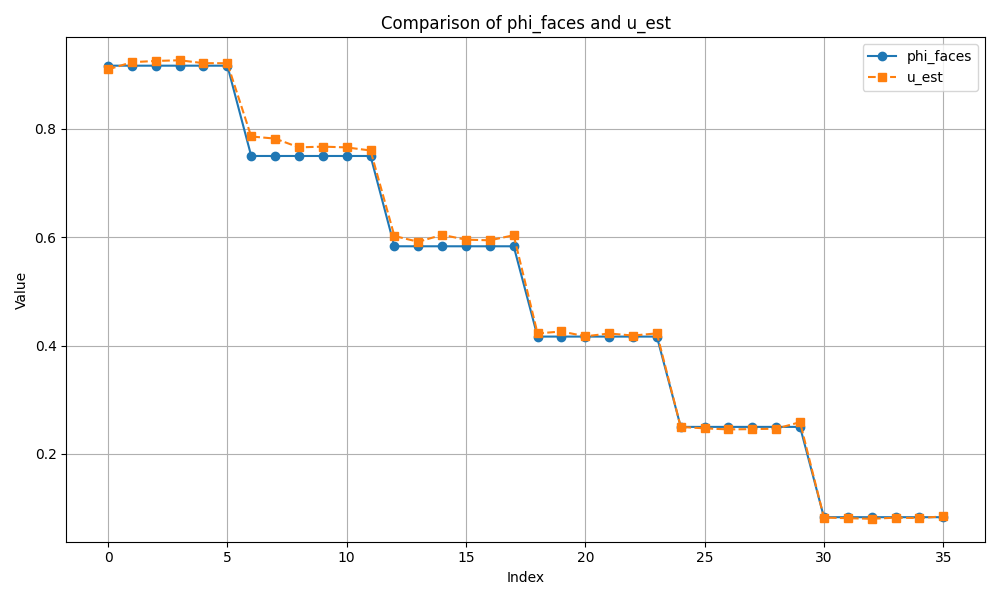
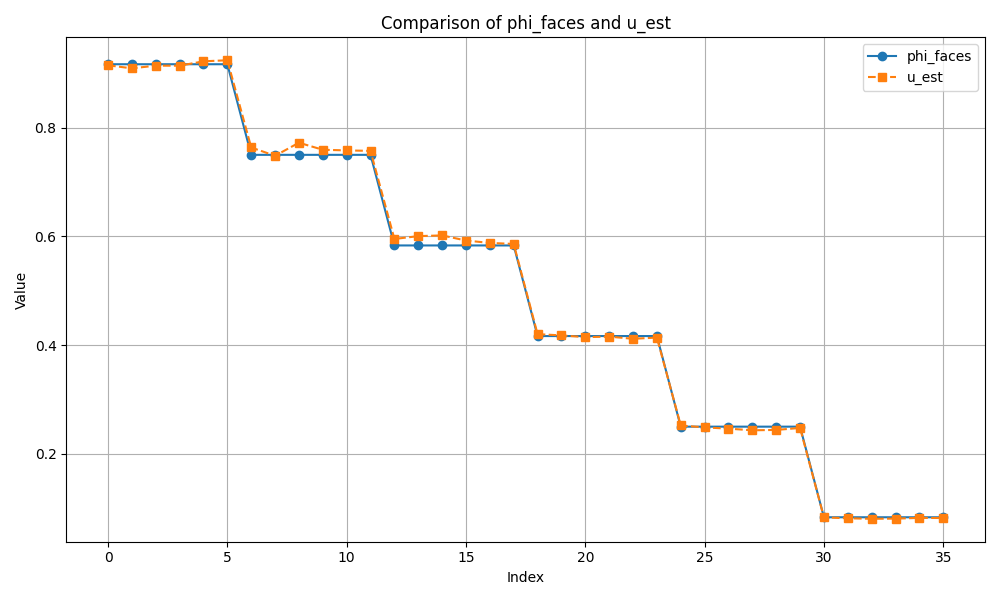
other test cases

diff --git a/ddec/DDEC_Net.py b/ddec/DDEC_Net.py
@@ -17,7 +17,7 @@ class PerturbNet(nn.Module):
                 nn.Linear(hidden_dim, 1)
             ).to(dtype=torch.float64, device=self.device) for _ in range(N)
         ])
-        #He initialization
+        
         self._init_nn()
     
     def _init_nn(self):
@@ -50,7 +50,7 @@ class PerturbNet(nn.Module):
 
 
 class DDECModel(nn.Module):
-    def __init__(self, iter, tol, epsilon, in_dim, out_dim, properties, device='cuda'):
+    def __init__(self, iter, tol, in_dim, out_dim, properties, device='cuda'):
         super(DDECModel, self).__init__()
         self.device = device
         if device == 'cuda' and not torch.cuda.is_available():
@@ -58,7 +58,6 @@ class DDECModel(nn.Module):
         
         self.iter = iter
         self.tol = tol
-        self.epsilon = epsilon
         self.in_dim = in_dim
         self.out_dim = out_dim
         self.lambda_adj = 0
@@ -72,19 +71,6 @@ class DDECModel(nn.Module):
         self.d1 = properties['d1']
         self.d0 = properties['d0']
         self.nn_contrib = 0
-        
-        temp = self.d1 @ self.d0
-        if self.epsilon > 0:
-            hidden_dim = 20
-            self.nn_modules = nn.ModuleList([
-                nn.Sequential(
-                nn.Linear(1, hidden_dim),
-                nn.ELU(),
-                nn.Linear(hidden_dim, hidden_dim),
-                nn.ELU(),
-                nn.Linear(hidden_dim, 1)).to(dtype=torch.float64) for _ in range(self.d1.shape[1])])
-            self._init_nn()
-
     
         self.device = self.d1.device
 
@@ -92,21 +78,6 @@ class DDECModel(nn.Module):
         self.B2_vals = nn.Parameter(torch.randn(self.d1.shape[0]))
         self.D1_vals = nn.Parameter(torch.randn(self.d1.shape[1]))
         self.D2_vals = nn.Parameter(torch.randn(self.d1.shape[0]))
-    
-    def _init_nn(self):
-        """
-        Initializes the neural network weights and biases using He initialization.
-        """
-        for model in self.nn_modules:
-            for layer in model:
-                if isinstance(layer, nn.Linear):
-                    if layer.out_features == self.out_dim:
-                        init.zeros_(layer.weight)
-                        init.zeros_(layer.bias)
-                    else:
-                        init.kaiming_normal_(layer.weight, nonlinearity='relu')
-                        if layer.bias is not None:
-                            init.zeros_(layer.bias)
 
     
     def compute_hodge_laplacian(self):
@@ -129,15 +100,6 @@ class DDECModel(nn.Module):
         K = K + 1e-6*torch.eye(K.shape[0]).to(dtype=torch.float64, device=self.device) 
         return K
 
-    def get_nn_contrib(self):
-        """
-        Returns the average absolute value of the neural network contributions.
-        
-        Returns:
-            float: The average absolute value of the neural network contributions.
-        """
-        return self.nn_contrib
-
 
     def forward(self, u, f,epoch=101):
         self.epoch = epoch
@@ -149,39 +111,6 @@ class DDECModel(nn.Module):
     def _transpose(self, x):
         return x.permute(*torch.arange(x.ndim - 1, -1, -1))
     
-    def cg_solver(self, matvec, rhs, tol=1e-6, max_iter=100):
-        """
-        Conjugate Gradient solver for the linear system Ax = b.
-        
-        Args:
-            matvec (callable): Function to compute the matrix-vector product Ax.
-            rhs (torch.Tensor): Right-hand side vector b.
-            tol (float): Tolerance for convergence.
-            max_iter (int): Maximum number of iterations.
-        
-        Returns:
-            torch.Tensor: Solution vector x.
-        """
-
-        x = torch.zeros_like(rhs, dtype=torch.float64)
-        r = rhs.clone().detach().requires_grad_(True)
-        p = r.clone()
-        rsold = torch.dot(r, r)
-
-        for i in range(max_iter):
-            Ap = matvec(p)
-            alpha = rsold / (torch.dot(p, Ap) + 1e-10)
-            x += alpha * p
-            r = r - alpha * Ap
-            rsnew = torch.dot(r, r)
-
-            if torch.sqrt(rsnew) < tol:
-                break
-
-            p = r + (rsnew / rsold) * p
-            rsold = rsnew
-
-        return x
     
     def forward_problem(self, u, K, f):
         """
@@ -196,55 +125,13 @@ class DDECModel(nn.Module):
         Returns:
             torch.Tensor: The solution to the PDE.
         """
-        def matvec(v):
-            """
-            Matrix-vector product for the operator function
-            Args:
-                v (torch.Tensor): Input vector.
-            Returns:
-                torch.Tensor: Result of the matrix-vector product.
-            """
-
-            jvp_resullt = jvp(operator, (u_n,), (v,), create_graph=True)[1]
-            return jvp_resullt
-        
-        def nn_operator(u):
-            grad_u = self.GRAD_s @ u
-            nn_val = torch.stack([
-                self.nn_modules[i](grad_u[i].unsqueeze(0)).squeeze(0)
-                for i in range(grad_u.shape[0])
-            ])
-            with torch.no_grad():
-                self.nn_contrib = nn_val.abs().mean().item()
-            return self.DIV @ nn_val
-
-        def operator(u):
-            #grad_u = self.GRAD_s @ u
-            #nn_val = self.nn_model(grad_u.unsqueeze(-1)).squeeze(-1)
-            # nn_val = torch.stack([self.nn_modules[i](grad_u[i].unsqueeze(0)).squeeze(0) for i in range(grad_u.shape[0])])
-            # with torch.no_grad():
-            #     self.nn_contrib = nn_val.abs().mean().item()
-
-
-            # div_nn_val = self.DIV @ nn_val
-            Ku = K@u + self.epsilon * nn_operator(u)
-
-            return Ku
-        
+  
         u_n = u.clone().detach().requires_grad_(True)
-    
         u_n = torch.linalg.solve(K, f)
-        for i in range(self.iter):
-            if self.epsilon > 0:
-                Ku = operator(u_n)
-                residual_vec = Ku - f
-                J = K + self.epsilon * torch.autograd.functional.jacobian(nn_operator, u_n)
-                #du = self.cg_solver(matvec, residual_vec, tol=1e-6)
-            
-            else:
-                Ku = K @ u_n
-                residual_vec = Ku - f
-                J = K
+        for i in range(self.iter):  
+            Ku = K @ u_n
+            residual_vec = Ku - f
+            J = K
             du = torch.linalg.solve(J, residual_vec)
             
             residual_norm = torch.linalg.norm(residual_vec, ord=2).item()
@@ -252,13 +139,8 @@ class DDECModel(nn.Module):
                 break
             u_n = u_n - du
 
-        if self.epsilon > 0:
-            Ku = operator(u_n)
-            #J = torch.autograd.functional.jacobian(operator, u_n)
-            J = K + self.epsilon * torch.autograd.functional.jacobian(nn_operator, u_n)
-        else:
-            Ku = K @ u_n
-            J = K
+        Ku = K @ u_n
+        J = K
 
         self.lambda_adj = self.adj_problem(u_n, J)
         self.adj_loss = self._transpose(self.lambda_adj) @ (Ku - f)

diff --git a/ddec/train.py b/ddec/train.py
@@ -9,18 +9,16 @@ from utils import *
 def train_main(N, alpha, iter, tol, epsilon, in_dim, out_dim, epochs, problem_type, lr,show_plot=False):
 
     batches, d0, d1 = dataset_generation(N, problem_type=problem_type)
-    d0 = d0.to(device='cuda' if torch.cuda.is_available() else 'cpu')
-    d1 = d1.to(device='cuda' if torch.cuda.is_available() else 'cpu')
-    properties = {'d0': d0, 'd1': d1}
     device = torch.device("cuda" if torch.cuda.is_available() else "cpu")
+    d0 = d0.to(device=device)
+    d1 = d1.to(device=device)
+    properties = {'d0': d0, 'd1': d1}
 
-    model = DDECModel(iter, tol, 0, in_dim, out_dim, properties)
+    model = DDECModel(iter, tol, in_dim, out_dim, properties)
 
     perturb = PerturbNet((N-1)*(N-1), 20, device=device)
-    optimizer = torch.optim.Adam(list(model.parameters()) + list(perturb.parameters()), lr=lr)
-
+    optimizer = torch.optim.Adam(list(model.parameters())+list(perturb.parameters()), lr=lr)
     criterion = torch.nn.MSELoss()
-
     losses = []
     epochs = epochs
 
@@ -62,9 +60,12 @@ def train_main(N, alpha, iter, tol, epsilon, in_dim, out_dim, epochs, problem_ty
         "loss": f"{loss.item():.8f}"
     })
             pbar.update(1)
-
+    print("")
+    print("="*50)
     print(f"Training completed after {epochs} epochs with final loss: {loss.item()}")
 
+    if problem_type == 'D2':
+        batches, d0, d1 = dataset_generation(N, problem_type="test")
     for X in batches:
 
         f, phi_faces, alpha = X
@@ -81,6 +82,4 @@ def train_main(N, alpha, iter, tol, epsilon, in_dim, out_dim, epochs, problem_ty
         plot_results(phi_faces, u_est, N, problem_type,alpha,show_plot=show_plot)
     np.savez('../results/losses.npz', losses=losses)
 
-
-    return losses
-    
+    return losses  

diff --git a/ddec/utils.py b/ddec/utils.py
@@ -7,7 +7,6 @@ import torch
 import matplotlib.pyplot as plt
 
 def plot_solution(model_out, N, alpha, a):
-    """Plot the solution"""
     plt.figure(figsize=(10, 8))
 
     plt.title(f"Darcy Flow Solution (α={alpha}, a={a})")
@@ -91,6 +90,23 @@ def dataset_generation(N, problem_type='D1',alpha=1.0):
             f = f_n.clone().detach().requires_grad_(True)
             batches.append((f, phi_faces,alph))
     
+    if problem_type == 'test':
+        for alph in [3,2.5,5]:
+            G = darcy_mod.create_darcy_dataset(n=N, problem_type=problem_type, alphas=[alph])
+            node_phi = nx.get_node_attributes(G, 'phi')
+            phi = torch.tensor(list(node_phi.values()), dtype=torch.float64)
+
+            d0 = ddec.cobound_d0(G)
+            d1 = ddec.cobound_d1(G)
+            phi_faces = ddec.convert_cochain(phi, N, degree=2).clone().detach().requires_grad_(True)
+
+            f = torch.zeros((N*N,), dtype=torch.float64)
+            f_n = set_boundary_conditions(G, f, problem_type=problem_type, alpha=alph)
+            f_n = ddec.convert_cochain(f_n, N, degree=2)
+
+            f = f_n.clone().detach().requires_grad_(True)
+            batches.append((f, phi_faces,alph))
+    
     return batches, d0, d1
 
 def make_u(N):
@@ -120,5 +136,5 @@ def plot_results(phi_faces,u_est, N, problem_type,alpha,show_plot=False):
         plt.savefig(f'../results/N={N}_alpha={alpha}_D2_results.png')
     if show_plot:
         plt.show()
-    print(f"Loss comparison plot saved in /results")
+    print(f"Output plot saved in /results")
     #plt.show()

diff --git a/tests/plot_losses.py b/tests/plot_losses.py
@@ -1,0 +1,25 @@
+import numpy as np
+import matplotlib.pyplot as plt
+
+data = np.load("../results/losses.npz")
+losses = data['losses']
+
+num_inputs = 3
+assert len(losses) % num_inputs == 0, "Loss array length must be divisible by number of inputs."
+
+losses_reshaped = losses.reshape(-1, num_inputs)
+epochs = np.arange(1, losses_reshaped.shape[0] + 1)
+
+
+plt.figure(figsize=(12, 6))
+for i in range(num_inputs):
+    plt.plot(epochs, losses_reshaped[:, i], label=f'Input {chr(65+i)}', marker='o', markersize=3)
+
+plt.title(f"Loss per Epoch for {num_inputs} Inputs")
+plt.xlabel("Epoch")
+plt.ylabel("Loss")
+plt.legend()
+plt.grid(True)
+plt.tight_layout()
+plt.savefig(f'../results/D2_losses.png')
+plt.show()
